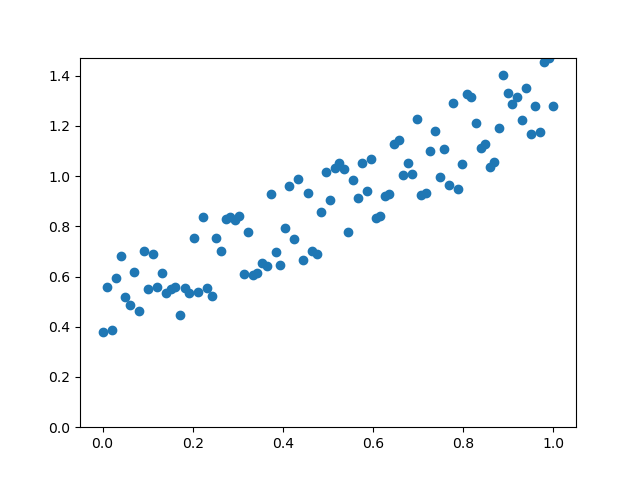
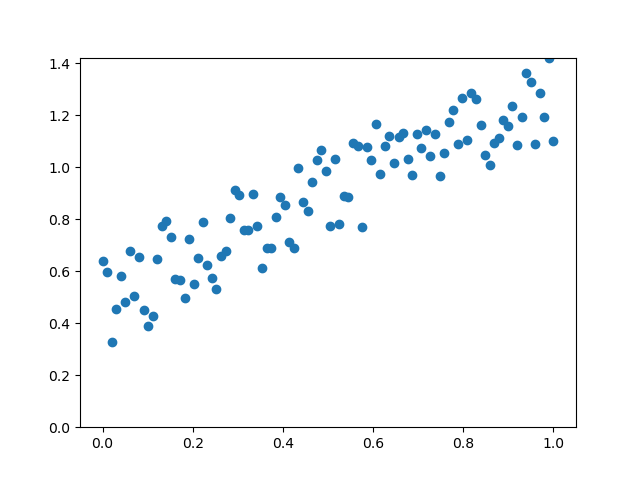
Update

diff --git a/gradijentni_spust.md b/gradijentni_spust.md
@@ -80,7 +80,15 @@ while True:
 
     if step_size_b > precision and step_size_a > precision:
         break 
+
+print(a,b)
 ```
+
+```
+0.7854448859780112, 0.5077777941471605
+```
+
+Zadani parametri a i b kod generiranja podataka za ovaj primjer su biti $a=0.8$ i $b=0.5$.
 
 Računanjem ovog algoritma model se postepeno fita na podatke:
 
